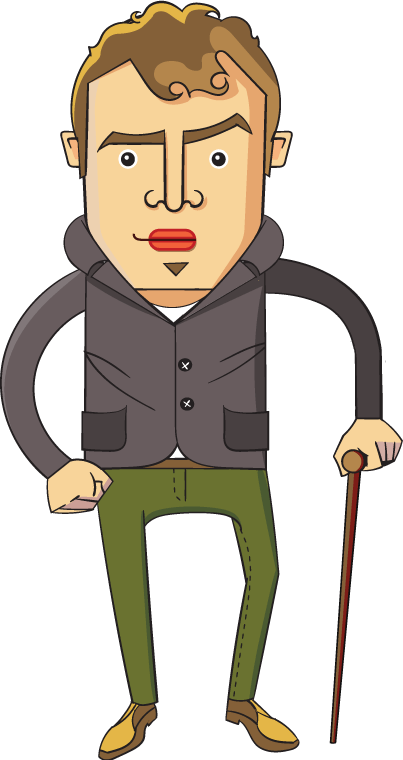
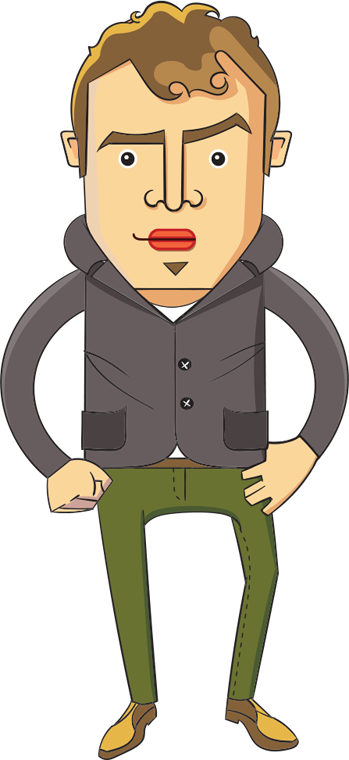
Update George's illustration (no more walking stick)

diff --git a/src/people/index.html b/src/people/index.html
@@ -401,7 +401,7 @@ menuorder: 4
       <div id="person-george" class="person-wrap js-iso-element">
         <a href="#" class="person js-show-bio">
           <div class="loader icon-spin1"></div>
-          <img class="person-image" src="{{ "/img/people/george.png " | prepend: site.baseurl }}" alt="George Wills" />
+          <img class="person-image" src="{{ "/img/people/george.png?r=1" | prepend: site.baseurl }}" alt="George Wills" />
           <span class="burst-wrap scale-in">
             <span class="burst-text fancy-pants-font lowercase">Bio</span>
             <img class="burst bio-rotate" src="{{ "/img/people/starburst.png " | prepend: site.baseurl }}" alt="" />
